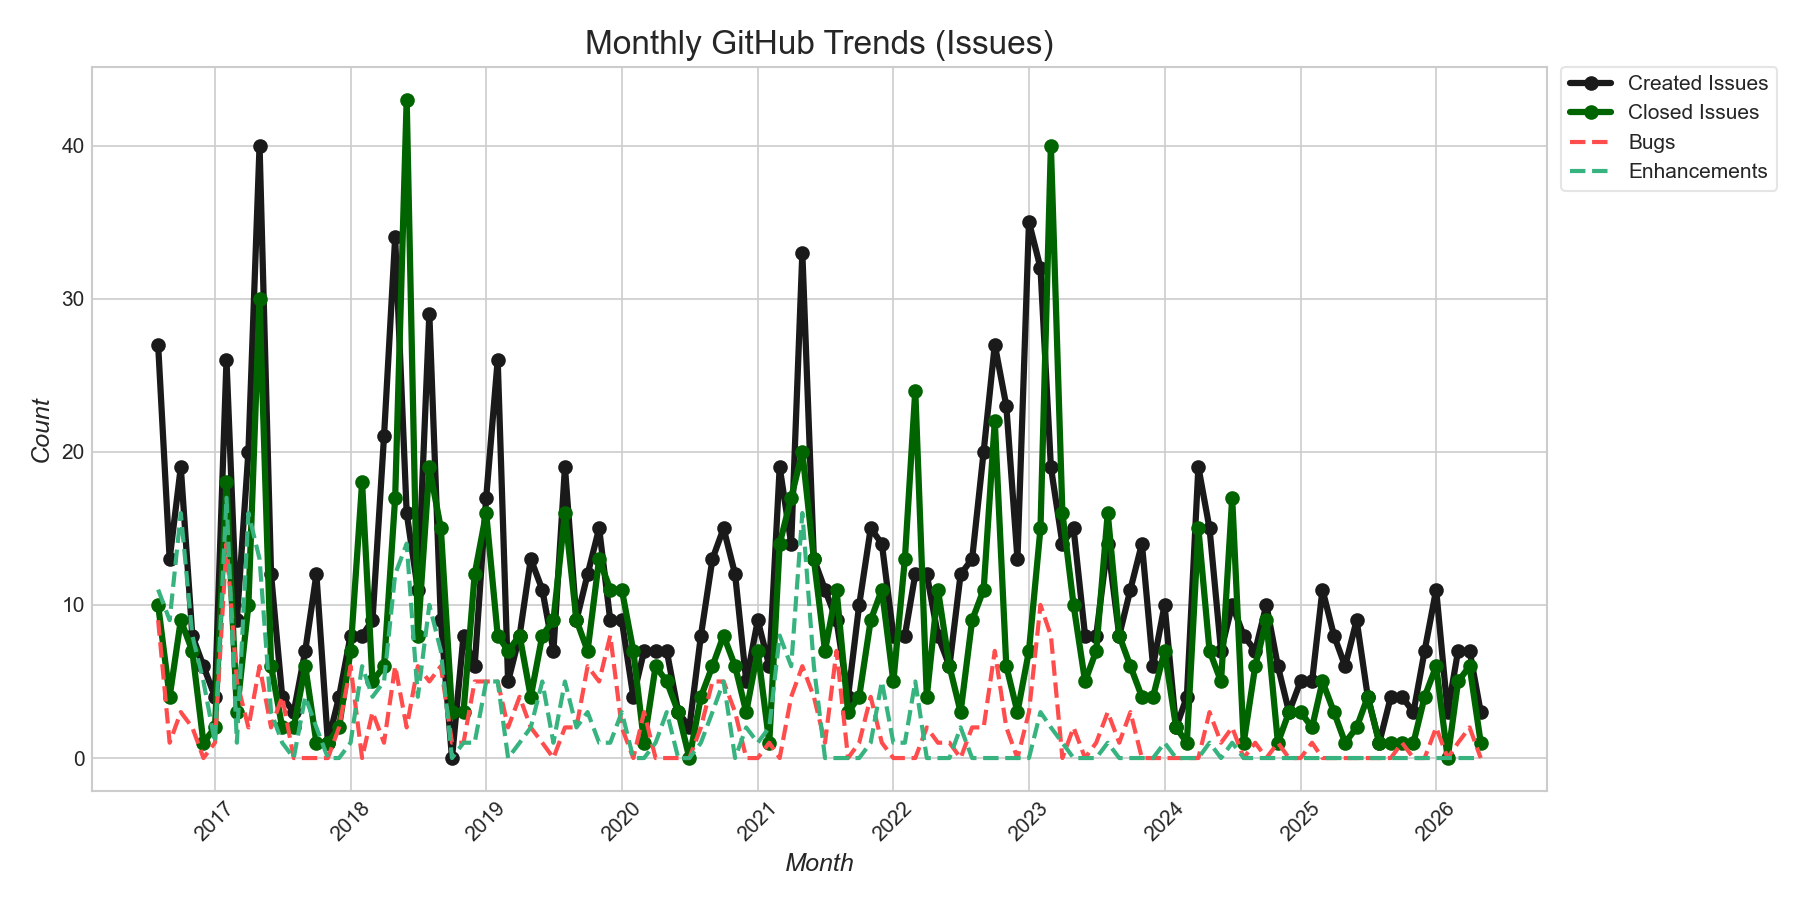
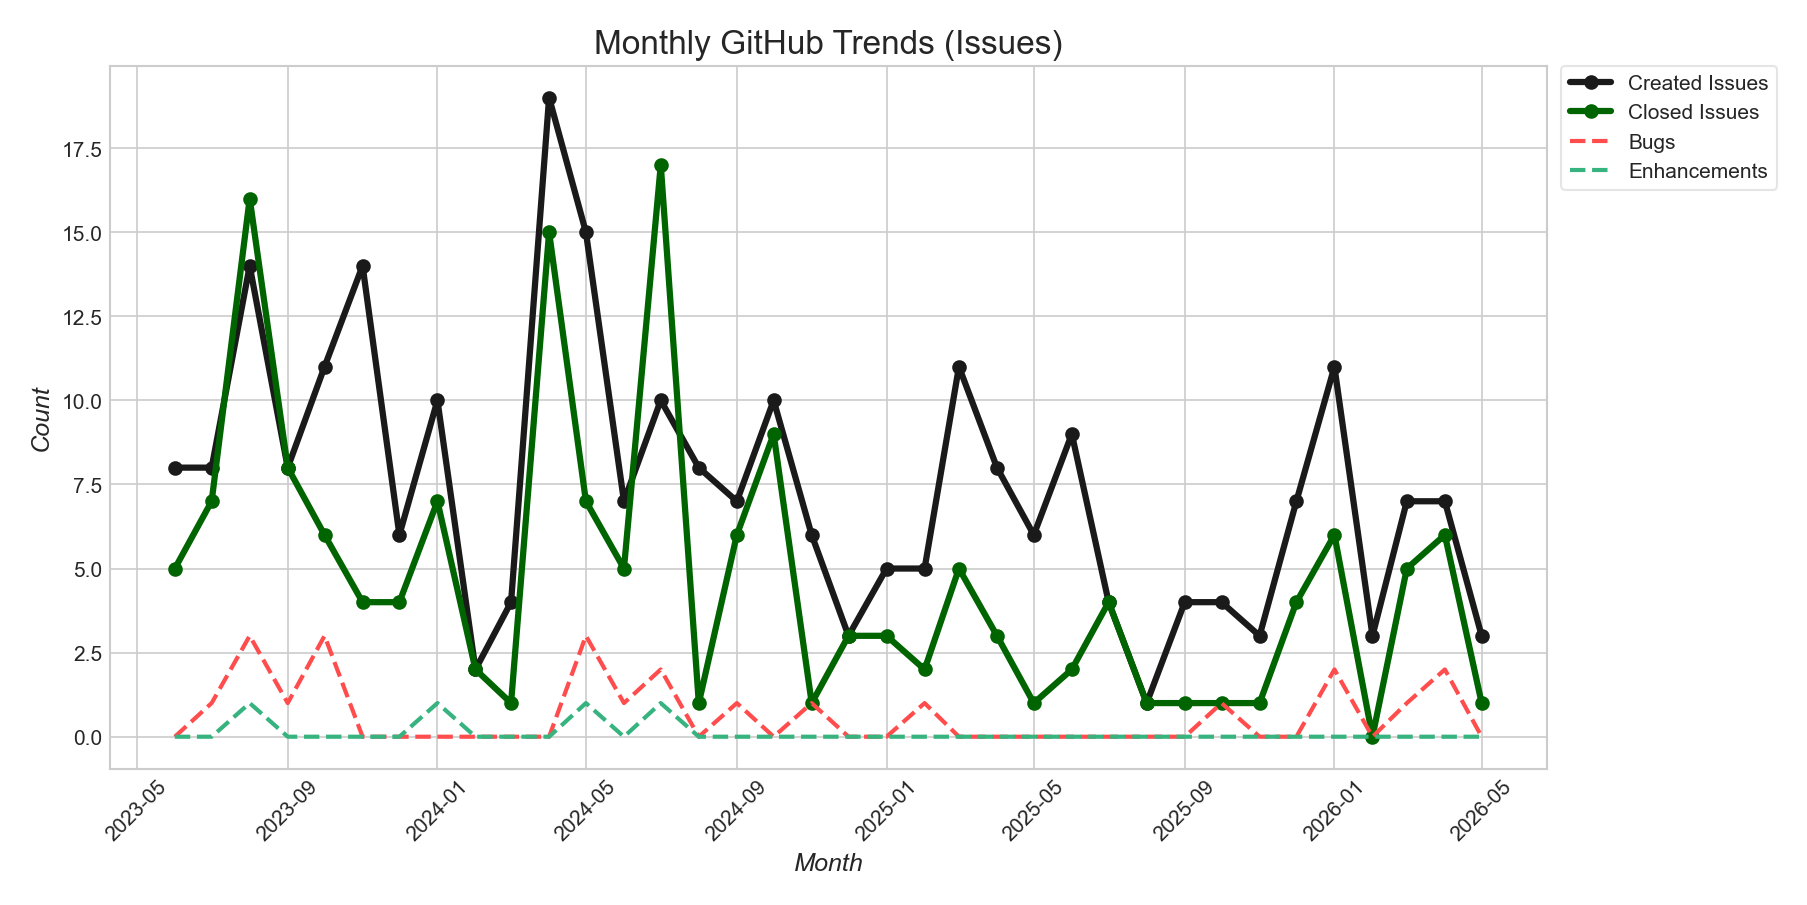
Regenerate tantivy charts with 3-year window (--start 2023-06)

diff --git a/trends/tantivy.md b/trends/tantivy.md
@@ -52,15 +52,15 @@
 |------|--------|-----|-----------|
 | 2016 | 7 | 7 | 0 |
 | 2017 | 13 | 12 | 1 |
-| 2018 | 21 | 19 | 2 |
-| 2019 | 37 | 29 | 8 |
-| 2020 | 26 | 22 | 4 |
-| 2021 | 40 | 34 | 6 |
-| 2022 | 32 | 23 | 9 |
-| 2023 | 38 | 27 | 11 |
-| 2024 | 33 | 23 | 10 |
-| 2025 | 41 | 29 | 12 |
-| 2026 (YTD, 5mo) | 35 | 22 | 13 |
+| 2018 | 20 | 18 | 2 |
+| 2019 | 36 | 29 | 7 |
+| 2020 | 25 | 22 | 3 |
+| 2021 | 38 | 33 | 5 |
+| 2022 | 31 | 23 | 8 |
+| 2023 | 37 | 27 | 10 |
+| 2024 | 32 | 23 | 9 |
+| 2025 | 40 | 29 | 11 |
+| 2026 (YTD, 5mo) | 34 | 22 | 12 |
 
 <!-- AUTO:yearly-contributors:end -->
 
